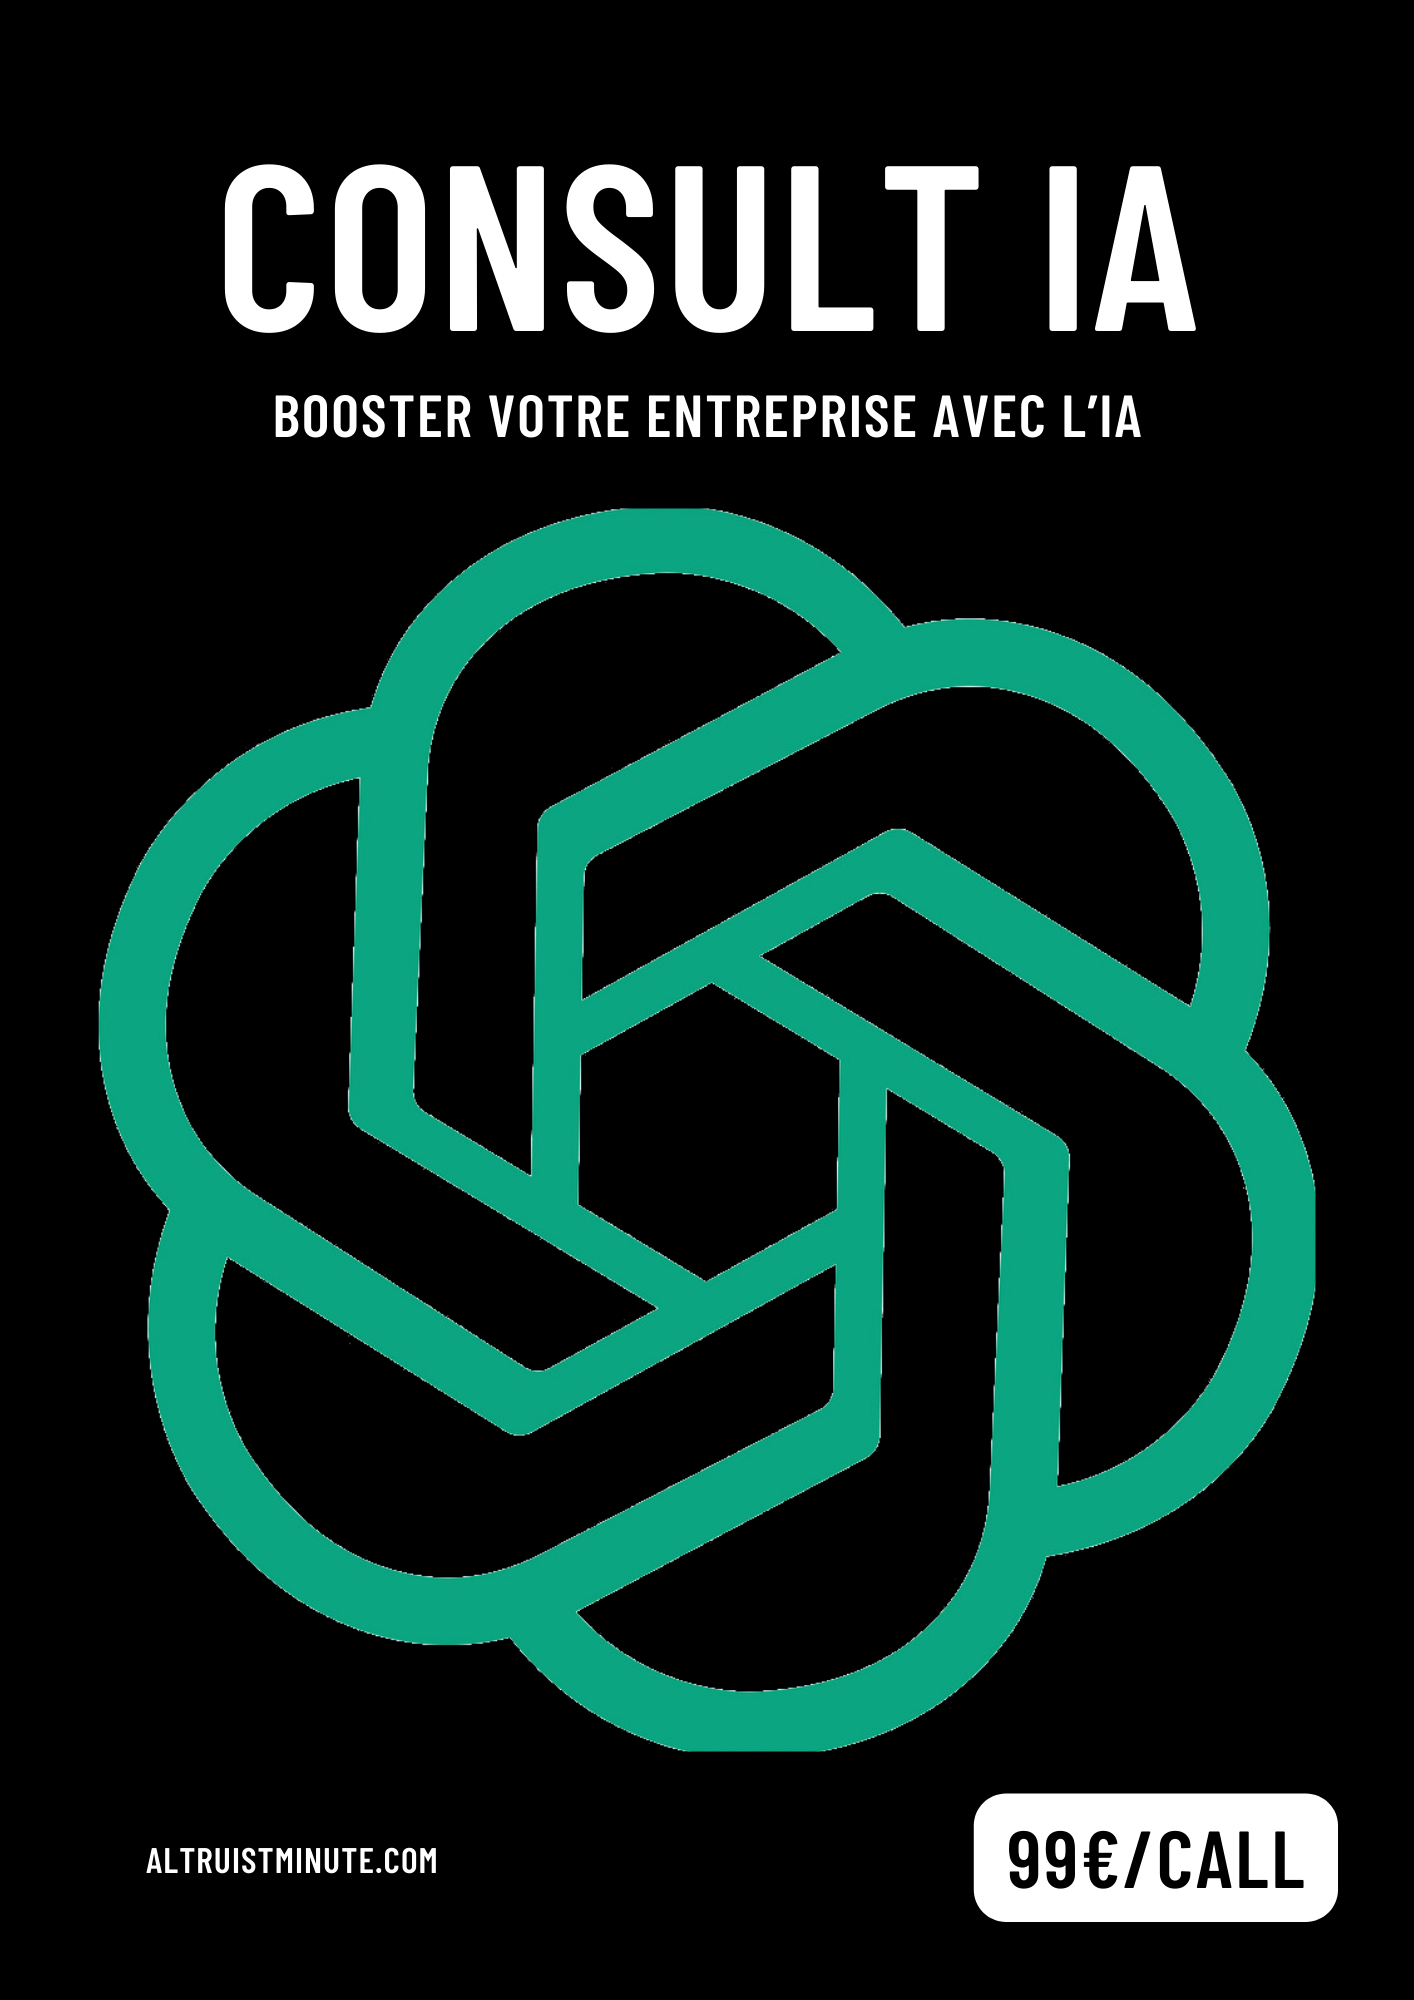
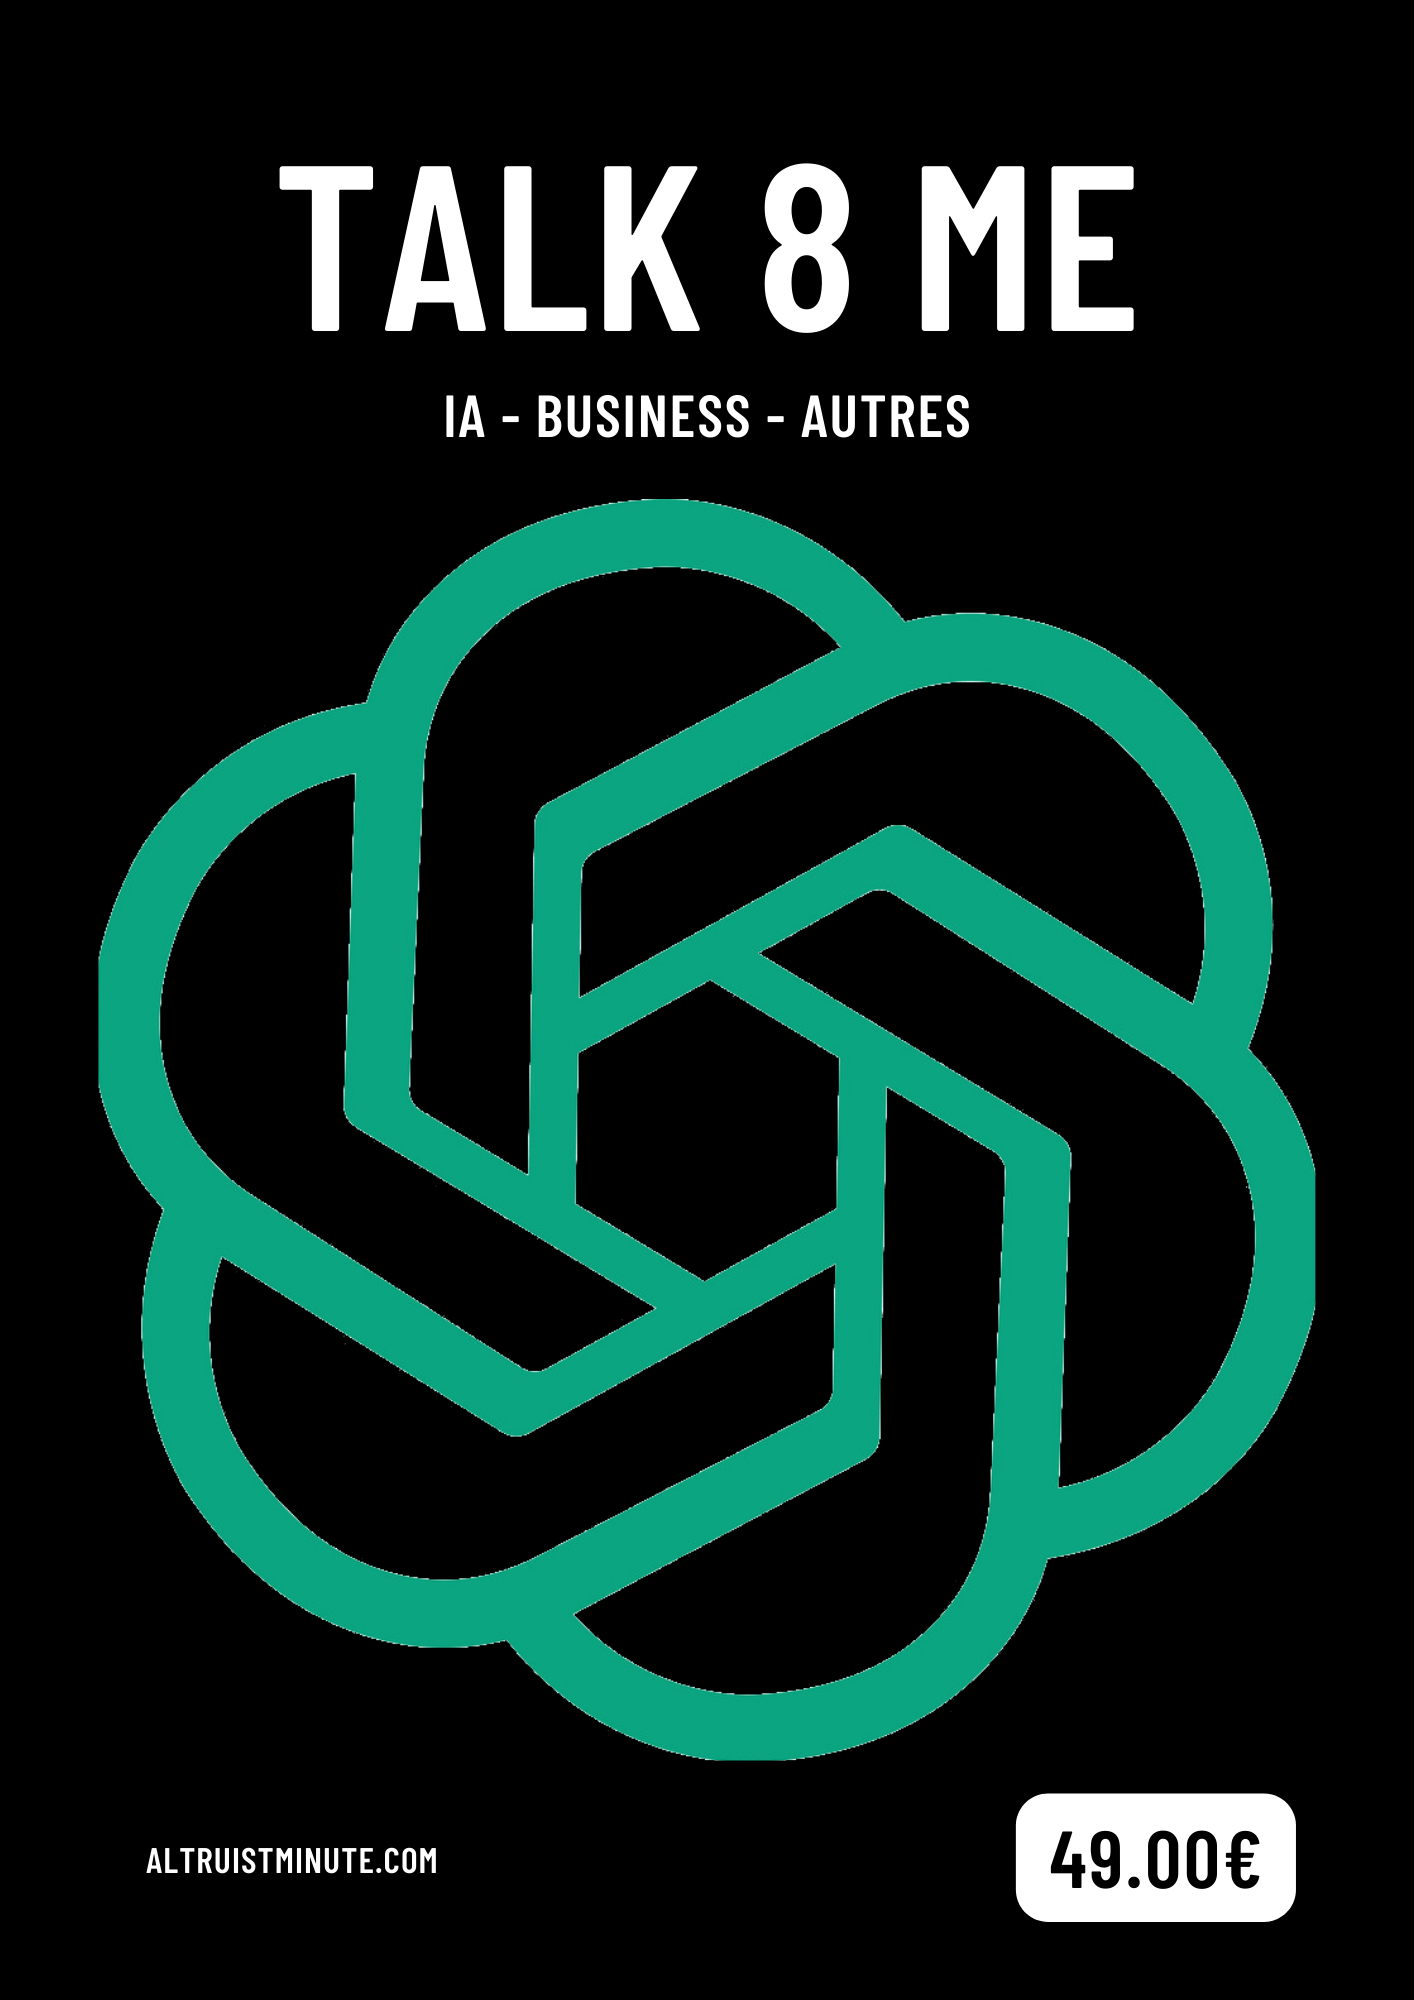
talk 8 me

diff --git a/ConsultationIA.html b/ConsultationIA.html
@@ -95,7 +95,8 @@ button.signup {
 	font-weight: bold;
 }
 
-.user-signup input {
+.user-signup input,
+.user-signup textarea {
     width: 250px;
     border: 1px solid #1889d0;
     border-radius: 10px;
@@ -451,50 +452,28 @@ function submitForm() {
 <div id="header"><h1>Consultation IA</h1></div>
 <div id="page">
 <div id="frontpage">
-<a href="https://buy.stripe.com/eVa15taeQ3p4156bJE"><img src="images/consultationia.png" width="350" height="495" class="pagePreview2" alt="Consultation IA Preview"></a><br />
+<a href="https://buy.stripe.com/4gw7tR0EgcZE29adRO"><img src="images/consultationia.png" width="350" height="495" class="pagePreview2" alt="Consultation IA Preview"></a><br />
 <small>Consultation IA</small>
 <br /><br />
 <div class="sharethis-inline-share-buttons"></div>
 	</div>
 	<div id="contents">
-	<h2>Transformez Votre Entreprise Avec L'IA : La Solution à Vos Défis</h2>
+	<h2>Call de 45 min avec moi. Vous choisisez le sujet.</h2>
 	<ol class="contents">
-    <li>&#9989; Expertise en IA de Notre Équipe</li>
-    <li>&#9989; Analyse de Votre Projet</li>
-    <li>&#9989; Stratégie d'IA Sur Mesure</li>
-    <li>&#9989; Formation et Accompagnement</li>
-    <li>&#9989; Suivi des Performances</li>
-    <li>&#9989; Idées de Business</li>
-    <li>&#9989; Optimisation des Processus</li>
-    <li>&#9989; Appel Visio de 45 Minutes</li>
-    <li>&#9989; Réservation 20h-00h (CET)</li>
+    <li>&#9989; Call Google Meet</li>
+    <li>&#9989; Durée : 45 min (CET)</li>
+    <li>&#9989; Entre 20h-00h (CET)</li>
+    <li>&#9989; Réservation 24h en avance</li>
+    <li>&#9989; Anonyme (Pas de Cam)</li>
+    <li>&#9989; Vous decidez du sujet</li>
+    <li>&#9989; Expertise en IA</li>
+    <li>&#9989; Expertise en Business en ligne</li>
+    <li>&#9989; Expertise en Tech</li>
 	</ol>
 	</div>
 	<div id="examplePages">
   </div>
   <div class="notice">
-    <h2>Cher Entrepreneur,</h2>
-    <p>Nous comprenons les défis auxquels vous êtes confrontés aujourd'hui. La concurrence est féroce, les marchés évoluent rapidement, et la nécessité de rester en tête de la course à l'innovation est plus cruciale que jamais. Vous avez entendu parler de l'Intelligence Artificielle (IA) et de ses avantages potentiels, mais vous vous demandez peut-être comment l'intégrer efficacement dans votre entreprise pour rester compétitif.</p>
-    <h2>Vos Defis</h2>
-    <ol>
-      <li><strong>Rester Concurrentiel</strong> : Vous cherchez constamment des moyens de maintenir un avantage concurrentiel et de vous démarquer dans votre industrie.</li>
-      <li><strong>Optimisation des Processus</strong> : Vous aimeriez automatiser des tâches répétitives et améliorer l'efficacité opérationnelle de votre entreprise.</li>
-      <li><strong>Prise de Décision Éclairée</strong> : Vous souhaitez prendre des décisions basées sur des données précises et des informations en temps réel.</li>
-      <li><strong>Personnalisation Client</strong> : Vous cherchez à offrir une expérience client plus personnalisée pour fidéliser et attirer de nouveaux clients.</li>
-    </ol>
-    <h2>Notre Solution</h2>
-    <p>Nous comprenons que l'IA peut sembler intimidante, mais c'est là que notre service de consultation en IA entre en jeu. Notre équipe d'experts est prête à vous guider à travers le monde complexe de l'IA, de manière simple et accessible, pour que vous puissiez récolter les fruits de cette technologie révolutionnaire.</p>
-    <p>Voici ce que notre service de consultation en IA peut faire pour vous :</p>
-    <ul>
-      <li><strong>Identification des Opportunités</strong> : Nous allons identifier comment l'IA peut être intégrée dans votre entreprise pour créer des avantages compétitifs tangibles.</li>
-      <li><strong>Stratégie Personnalisée</strong> : Nous allons élaborer une stratégie d'IA personnalisée pour répondre à vos besoins spécifiques et à ceux de votre entreprise.</li>
-      <li><strong>Formation et Accompagnement</strong> : Nous vous guiderons à travers chaque étape du processus, du concept à la mise en œuvre, en vous fournissant les connaissances nécessaires pour prendre des décisions éclairées.</li>
-      <li><strong>Suivi des Résultats</strong> : Nous surveillerons les performances de l'IA au sein de votre entreprise et apporterons des ajustements au besoin.</li>
-    </ul>
-    <p>Réservez dès maintenant un appel Visio de 45 minutes (entre 20h-00h CET) avec l'un de nos experts en IA. Pendant cet appel, nous discuterons de vos défis spécifiques et de la manière dont l'IA peut les résoudre. Vous aurez également l'opportunité de poser toutes vos questions et de voir comment nous pouvons vous aider à atteindre vos objectifs.</p>
-    <h2>👉<a href="https://buy.stripe.com/eVa15taeQ3p4156bJE">Cliquez ici pour reserver votre consultation</a></h2>
-    <p><em>Ensemble, faisons de votre entreprise une entreprise innovante et axée sur l'avenir grâce à l'IA. Notre équipe est prête à vous guider à chaque étape. Contactez-nous dès maintenant pour une consultation qui pourrait changer la donne !</em></p>
-    <p><br></p>
     <style>
       #legal {
           text-decoration: underline;
@@ -512,21 +491,26 @@ function submitForm() {
       }
 
       .legal-content h2 {
-          font-size: 18px;
+          font-size: 14px;
           color: #333;
           margin-top: 15px;
       }
 
       .legal-content p {
-          font-size: 16px;
+          font-size: 12px;
           color: #666;
       }
   </style>
 
   <h2>A Propos</h2>
-  <p>L'intelligence artificielle, la tech et le business en ligne sont los domaines d'expertise de AltruistMinute. Notre but ? Vous aider à faire travailler l'IA à votre place comme elle le fait déjà pour nous. Nous partageons ici les outils que nous avons développés et que nous utilisons au quotidien, nos méthodes, nos astuces et secrets. Profitez-en maintenant et devenez un super-humain.</p>
+  <p>J'ai touché à tous les business en ligne pendant plus de 10 ans. Je teste actuellement les dernières technoligies IA que j'intègre dans mes business et ceux de mes clients.
+  Le constat est simple. L'avenir du business en ligne est dans l'IA.
+  Le plus fou, c'est que n'importe qui peut s'y lancer désormais, en ayant les bonnes infos.
+  Ces infos, je les ai, et je suis prêt à vous les partager.
+  L'IA ne va pas vous remplacer, mais ceux qui l'utiliserons le feront.
+  Ne manquez pas le train. C'est maintenant ou jamais.</p>
 
-  <h2 id="legal" onclick="toggleLegalContent()">Légal et Garantie</h2>
+  <h4 id="legal" onclick="toggleLegalContent()">Légal et Garantie</h4>
   <div class="legal-content">
       <h2>Satisfaction Garantie</h2>
       <p>Chez AltruistMinute, nous nous engageons à offrir une expérience exceptionnelle à nos clients. Nous croyons en la qualité de nos produits et services liés à l'Intelligence Artificielle (IA), et nous sommes fiers de les mettre à votre disposition. Si, pour une raison quelconque, vous n'êtes pas entièrement satisfait de votre achat, nous ferons tout en notre pouvoir pour résoudre vos préoccupations. Nous offrons une garantie de satisfaction client à 100 %.</p>
@@ -557,19 +541,20 @@ function submitForm() {
   </div>
 	<div class="sign-up">
     <form action="https://formsubmit.co/altruistminute@gmail.com" method="POST">
-  	<h2>Souscrire à notre newsletter</h2>
+  	<h2>Service Client</h2>
   	<table style="margin:auto;" class="user-signup">
   		<tr><th>Email:</th><td><input type="email" id="email" name="email" required/></td></tr>
+      <tr><th>Motif:</th><td><textarea id="message" style="height: 100px;" required></textarea></td></tr>
       <input type="hidden" name="_template" value="table">
       <input type="hidden" name="_captcha" value="false">
       <input type="hidden" name="_next" value="https://altruistminute.com/ConsultationIA">
       <input type="hidden" name="_subject" value="New Comer Altruist">
-  		<tr><td colspan="2"><button class="signup" type="submit">Souscrire</button></td></tr>
+  		<tr><td colspan="2"><button class="signup" type="submit">Envoyer</button></td></tr>
   	</table>
   	</form>
 	</div>
 	<div id="footerBackground"></div>
-	<div id="footer">ConsultationIA <button class="download" onclick="location.href='https://buy.stripe.com/eVa15taeQ3p4156bJE'">Reserver Votre Consultation</button></div>
+	<div id="footer">ConsultationIA <button class="download" onclick="location.href='https://buy.stripe.com/4gw7tR0EgcZE29adRO'">Reserver Un Call</button></div>
 <script>
 com.goalkicker.headerFooterGlassEffect.load();
 

diff --git a/index.html b/index.html
@@ -134,32 +134,22 @@ button:hover {
 <body>
 <div id="page">
 	<h1>Intelligence Artificielle - AltruistMinute</h1>
-	<form action="https://formsubmit.co/altruistminute@gmail.com" method="POST">
-	<table style="margin:auto;" class="user-signup">
-		<tr><th>Email:</th><td><input type="email" id="email" name="email" required/></td></tr>
-		<input type="hidden" name="_template" value="table">
-		<input type="hidden" name="_captcha" value="false">
-		<input type="hidden" name="_next" value="https://tinyurl.com/2jutfn65">
-		<input type="hidden" name="_subject" value="New Comer Altruist">
-		<tr><td colspan="2"><button class="signup" type="submit">S'abonner</button></td></tr>
-	</table>
-	</form>
 	<div class="books">
-		<div class="bookContainer grow"><a href="Youbot" target="_blank"><img src="images/youbot.png" alt="Youbot AI" width="350" height="495" /></a><br />Youbot AI</div>
+		<div class="bookContainer grow"><a href="ChatGPTBusinessPrompt" target="_blank"><img src="images/chatgptbusiness.png" alt="ChatGPT Business Prompt" width="350" height="495" /></a><br />ChatGPT Business Prompt <span style="color:green">{Offert}<span></div>
+		<form action="https://formsubmit.co/altruistminute@gmail.com" method="POST">
+		<table style="margin:auto;" class="user-signup">
+			<tr><th>Email:</th><td><input type="email" id="email" name="email" required/></td></tr>
+			<input type="hidden" name="_template" value="table">
+			<input type="hidden" name="_captcha" value="false">
+			<input type="hidden" name="_next" value="https://tinyurl.com/2jutfn65">
+			<input type="hidden" name="_subject" value="New Comer Altruist">
+			<tr><td colspan="2"><button class="signup" type="submit">Recevoir ce Guide</button></td></tr>
+		</table>
+		</form>
 		<div class="bookContainer grow"><a href="ConsultationIA" target="_blank"><img src="images/consultationia.png" alt="Consultation IA" width="350" height="495" /></a><br />Consultation IA</div>
 		<div class="bookContainer grow"><a href="DevSiteWeb" target="_blank"><img src="images/devsiteweb.png" alt="Dev Site Web" width="350" height="495" /></a><br />Dev Site Web</div>
 		<div class="bookContainer grow"><a href="EliteIA" target="_blank"><img src="images/eliteia.png" alt="Elite IA" width="350" height="495" /></a><br />Elite IA</div>
-		<div class="bookContainer grow"><a href="ChatGPTBusinessPrompt" target="_blank"><img src="images/chatgptbusiness.png" alt="ChatGPT Business Prompt" width="350" height="495" /></a><br />ChatGPT Business Prompt</div>
-		<div class="bookContainer grow"><a href="FoodPrompt" target="_blank"><img src="images/food.png" alt="Food Prompt" width="350" height="495" /></a><br />Food Prompt</div>
-		<div class="bookContainer grow"><a href="PhotoPortraitPrompt" target="_blank"><img src="images/photoportrait.png" alt="Photo Portrait Prompt" width="350" height="495" /></a><br />Photo Portrait Prompt</div>
-		<div class="bookContainer grow"><a href="CarPrompt" target="_blank"><img src="images/car.png" alt="Car Prompt" width="350" height="495" /></a><br />Car Prompt</div>
-		<div class="bookContainer grow"><a href="NatGeoAnimalsPrompt" target="_blank"><img src="images/natgeoanimals.png" alt="Nat Geo Animals Prompt" width="350" height="495" /></a><br />Nat Geo Animals Prompt</div>
-		<div class="bookContainer grow"><a href="WatercolorPortraitPrompt" target="_blank"><img src="images/watercolorportrait.png" alt="Watercolor Portrait Prompt" width="350" height="495" /></a><br />Watercolor Portrait Prompt</div>
-		<div class="bookContainer grow"><a href="CyberpunkPrompt" target="_blank"><img src="images/cyberpunk.png" alt="Cyberpunk Prompt" width="350" height="495" /></a><br />Cyberpunk Prompt</div>
-		<div class="bookContainer grow"><a href="PortraitPaintPrompt" target="_blank"><img src="images/portraitpaint.png" alt="Portrait Paint Prompt" width="350" height="495" /></a><br />Portrait Paint Prompt</div>
-		<div class="bookContainer grow"><a href="AnimalsCloudPrompt" target="_blank"><img src="images/animalscloud.png" alt="Animals Cloud Prompt" width="350" height="495" /></a><br />Animals Cloud Prompt</div>
-		<div class="bookContainer grow"><a href="ColorfulArtPrompt" target="_blank"><img src="images/colorfulart.png" alt="Colorful Art Prompt" width="350" height="495" /></a><br />Colorful Art Prompt</div>
-		<div class="bookContainer grow"><a href="ProShootPrompt" target="_blank"><img src="images/proshoot.png" alt="Professional Shoot Prompt" width="350" height="495" /></a><br />Professional Shoot Prompt</div>
+		<div class="bookContainer grow"><a href="Youbot" target="_blank"><img src="images/youbot.png" alt="Youbot AI" width="350" height="495" /></a><br />Youbot AI</div>
 	<div>
 	<div class="latest-news">
 		<h2>A Propos</h2>
